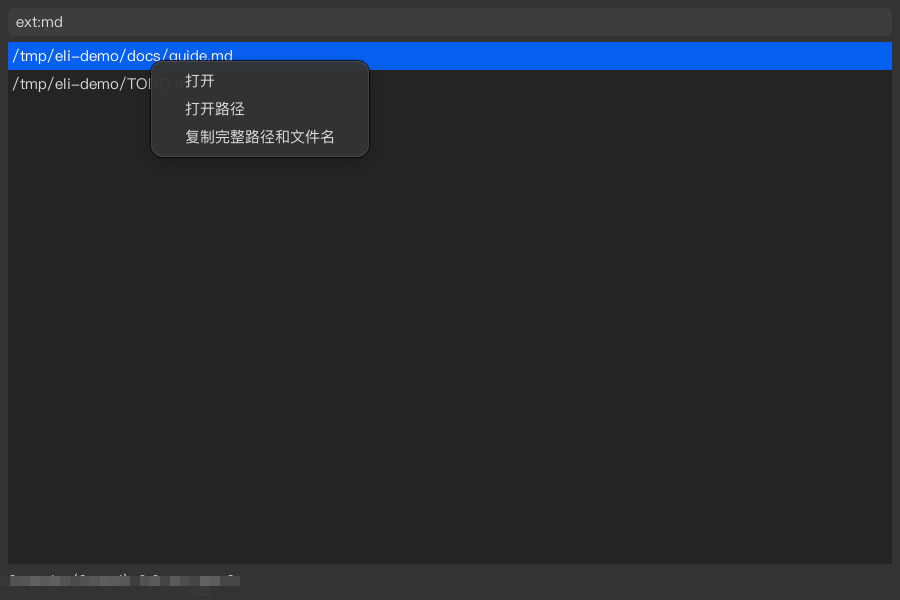
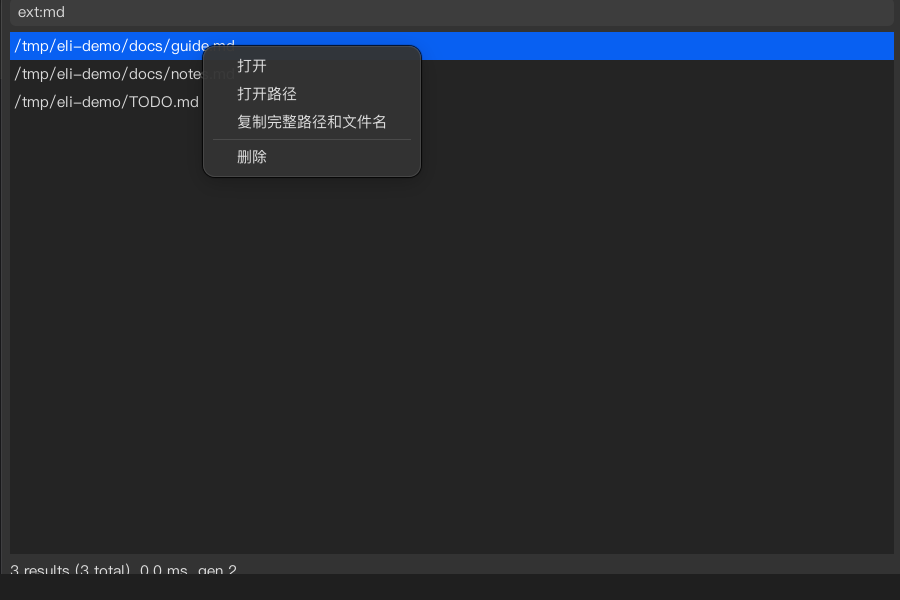
docs: 更新右键菜单截图并加入删除项

Changed region(s): [[0.0, 0.0, 0.9956, 0.3], [0.0, 0.93, 0.28, 0.99]]

diff --git a/README.md b/README.md
@@ -34,7 +34,7 @@ Everything 在 Windows 上的极速来自两个系统事实：直接解析 NTFS 
 | 搜索结果（输入即出） | 属性过滤（`ext:md`） | 结果右键菜单 |
 |:---:|:---:|:---:|
 | ![搜索结果](docs/screenshots/01-search-results.png) | ![属性过滤](docs/screenshots/02-property-filter.png) | ![右键菜单](docs/screenshots/03-context-menu.png) |
-| 文件名即时匹配 | `size:` / `dm:` / `ext:` 等过滤 | 打开 / 打开路径 / 复制完整路径和文件名 |
+| 文件名即时匹配 | `size:` / `dm:` / `ext:` 等过滤 | 打开 / 打开路径 / 复制完整路径和文件名 / 删除 |
 
 ## 软件架构
 
